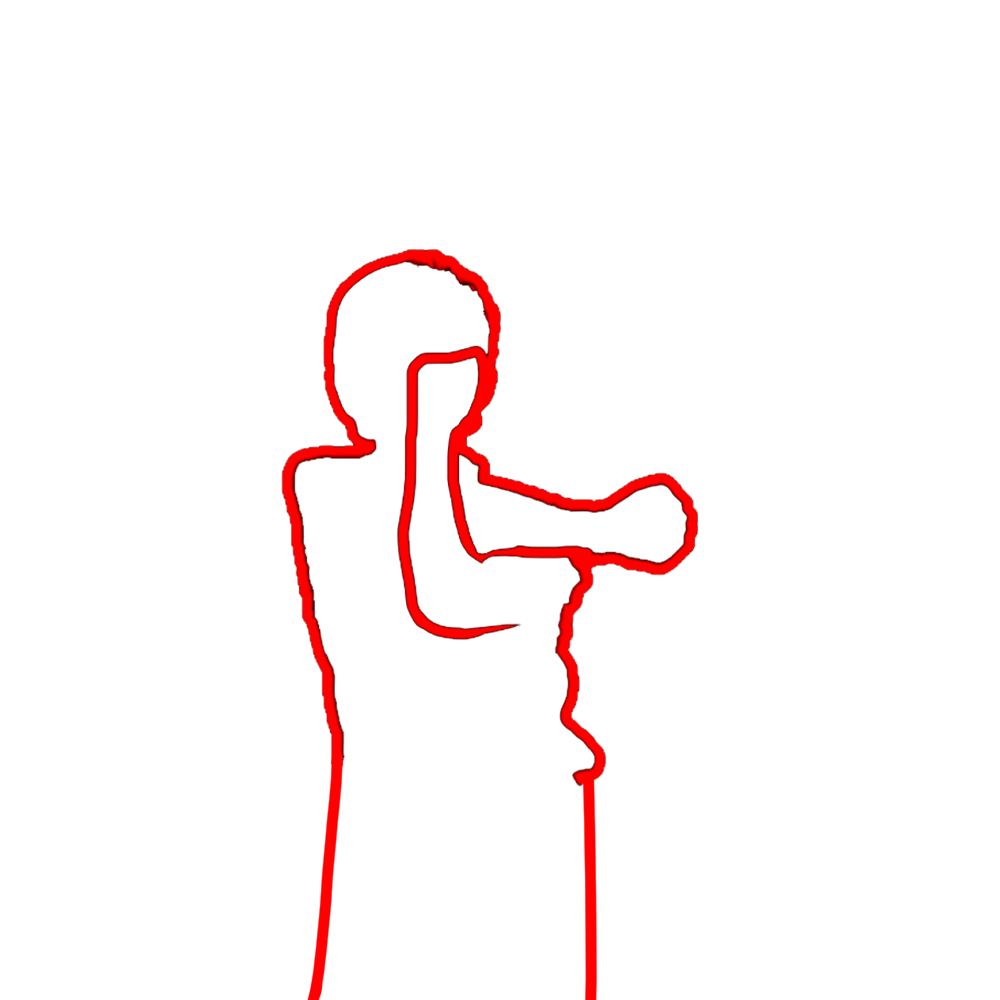
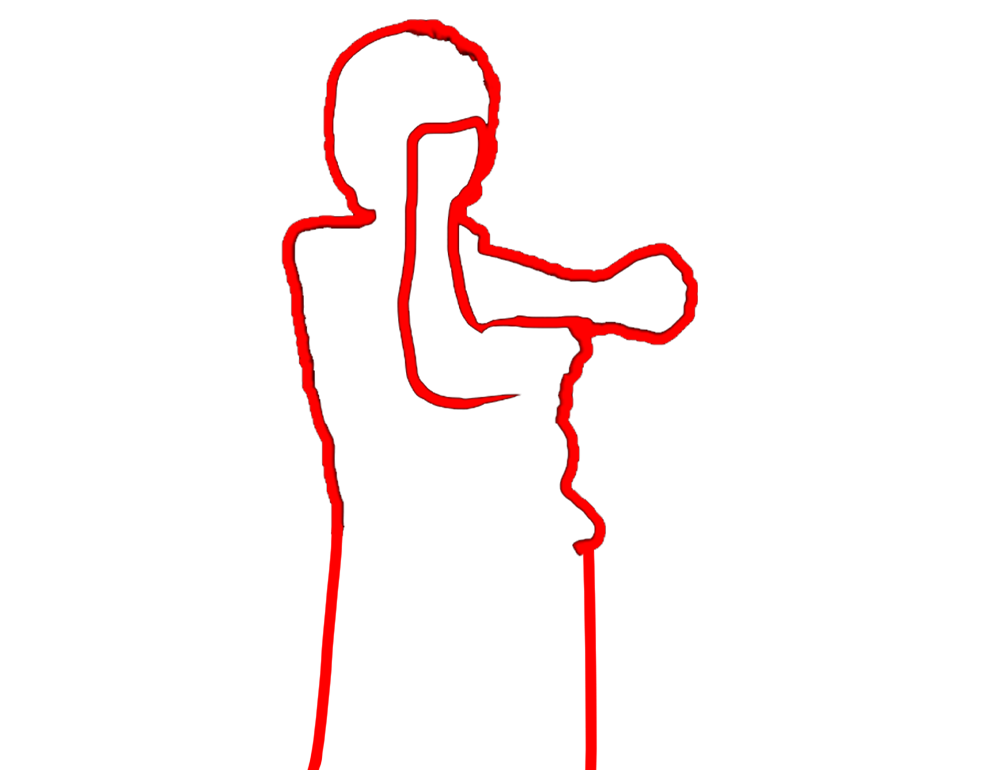
small fixes

Changed region(s): [[0.279, 0.0, 0.713, 0.9662], [0.62, 0.3117, 0.682, 0.3429]]

diff --git a/main_game.py b/main_game.py
@@ -2,7 +2,7 @@ from ultralytics import YOLO
 import cv2 as cv
 import csv
 import random
-import torch
+
 from pose_keypoint import pose_keypoint
 from game_utilities import utilities
 from button import button
@@ -67,12 +67,12 @@ for i in range(6):
     sprite = cv.resize(sprite, (0, 0), fx = 0.4, fy = 0.4)
     timer_sprite.append(sprite)
 
-thumb_x = 700
-thumb_y = 400
+thumb_x = 1200
+thumb_y = 20
 
 thumb_sprite = []
 thumb_frame_timer = 0
-thumb_frame_timer_max = 10
+thumb_frame_timer_max = 25
 for i in range(5):
     sprite = utilities.read_image_alpha("sprites/thumb.png")
     sprite_partition = int(sprite.shape[1] / 5)
@@ -89,6 +89,9 @@ feedback_bar = cv.resize(feedback_bar, (0, 0), fx = 2.0, fy = 0.5)
 
 z_button = utilities.read_image_alpha("sprites/z_toggle.png")
 z_button = cv.resize(z_button, (0, 0), fx = 0.3, fy = 0.3)
+
+q_button = utilities.read_image_alpha("sprites/z_toggle.png")
+q_button = cv.resize(z_button, (0, 0), fx = 0.3, fy = 0.3)
 
 outline_x = 460
 outline_y = 80
@@ -237,7 +240,7 @@ while True:
         frame = utilities.add_image(frame, title, 500, 50)
         frame = title_start.draw_box(frame, 700, 300)
 
-        frame = cv.putText(frame, "Stretch Exercise", (580, 180), cv.FONT_HERSHEY_SIMPLEX, 2.7, (0, 0, 0), 8)
+        frame = cv.putText(frame, "StretchMatch ", (650, 180), cv.FONT_HERSHEY_SIMPLEX, 2.7, (0, 0, 0), 8)
         frame = cv.putText(frame, "Start", (800, 380), cv.FONT_HERSHEY_SIMPLEX, 3, (0, 0, 0), 8)
 
         button_output = title_start.detect_cursor(player_point)
@@ -292,9 +295,10 @@ while True:
         if round_counter == -1:
             frame = cv.putText(frame, "Tutorial", (850, 80), cv.FONT_HERSHEY_SIMPLEX, 1.7, (255, 255, 255), 3)
         else:
-            frame = cv.putText(frame, f"Pose {round_counter + 1} of 10", (850, 80), cv.FONT_HERSHEY_SIMPLEX, 1.7, (255, 255, 255), 3)
+            frame = cv.putText(frame, f"Pose {round_counter + 1} of 10", (730, 80), cv.FONT_HERSHEY_SIMPLEX, 1.7, (255, 255, 255), 3)
 
         if show_outline:
+            outline_y = 1080 - outline.shape[0]
             frame = utilities.add_image(frame, outline, outline_x, outline_y)
 
         # time bar
@@ -319,20 +323,20 @@ while True:
         frame = draw_keypoints(frame)
 
         # thumb icon
-        if thumb_frame_timer / thumb_frame_timer_max > 0.8:
-            frame = utilities.add_image(frame, thumb_sprite[0], thumb_x, thumb_y)
+        if thumb_frame_timer / thumb_frame_timer_max > 0.9:
+            frame = utilities.add_image(frame, thumb_sprite[0], thumb_x, thumb_y - 4)
+
+        elif thumb_frame_timer / thumb_frame_timer_max > 0.8:
+            frame = utilities.add_image(frame, thumb_sprite[1], thumb_x, thumb_y - 8)
 
         elif thumb_frame_timer / thumb_frame_timer_max > 0.6:
-            frame = utilities.add_image(frame, thumb_sprite[1], thumb_x, thumb_y)
+            frame = utilities.add_image(frame, thumb_sprite[2], thumb_x, thumb_y - 12)
 
         elif thumb_frame_timer / thumb_frame_timer_max > 0.4:
-            frame = utilities.add_image(frame, thumb_sprite[2], thumb_x, thumb_y)
-
-        elif thumb_frame_timer / thumb_frame_timer_max > 0.2:
-            frame = utilities.add_image(frame, thumb_sprite[3], thumb_x, thumb_y)
+            frame = utilities.add_image(frame, thumb_sprite[3], thumb_x, thumb_y - 16)
 
         elif thumb_frame_timer / thumb_frame_timer_max > 0:
-            frame = utilities.add_image(frame, thumb_sprite[4], thumb_x, thumb_y)
+            frame = utilities.add_image(frame, thumb_sprite[4], thumb_x, thumb_y - 20)
 
         # check if all are in place
         verification = True
